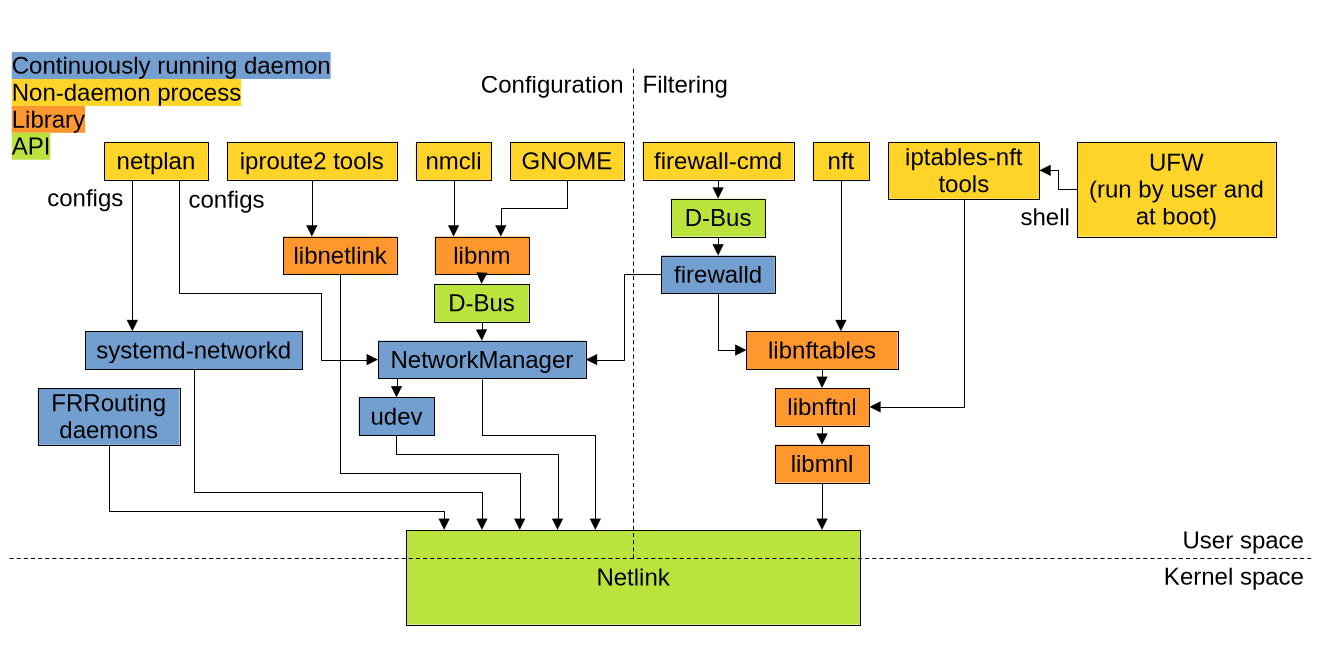
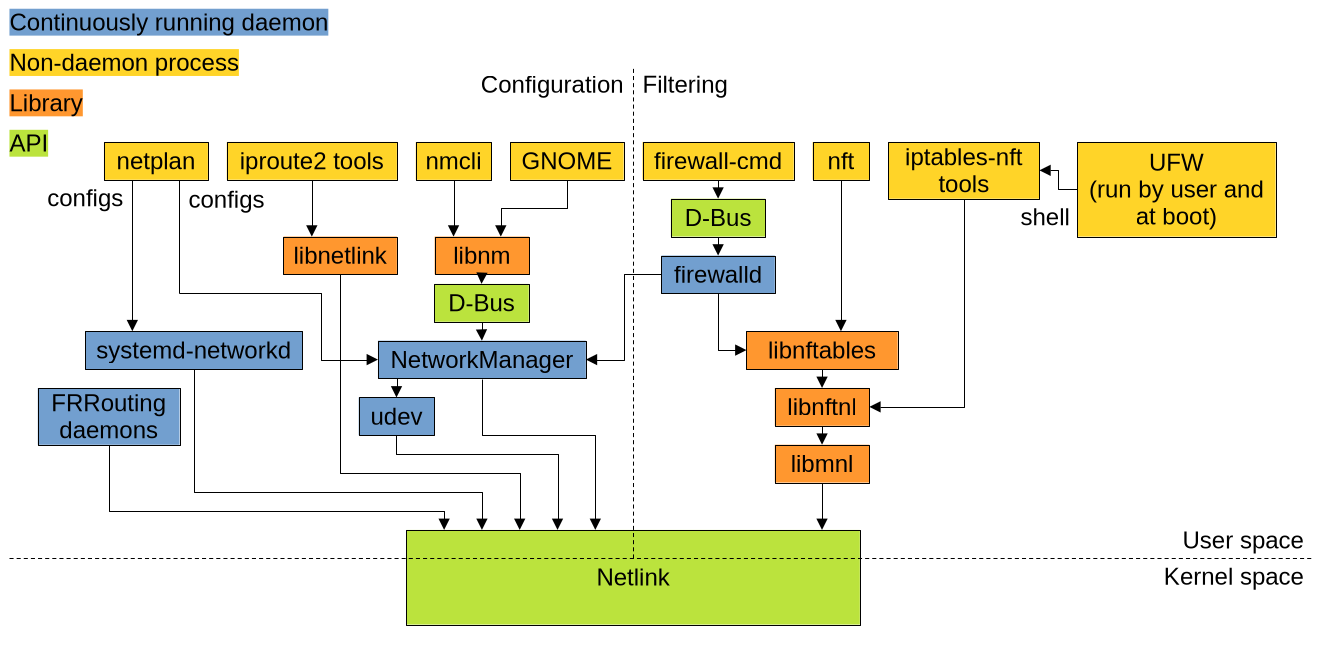
feat: improvments on networking article

Changed region(s): [[0.0, 0.0, 0.2479, 0.2417]]

diff --git a/src/components/references.tsx b/src/components/references.tsx
@@ -69,8 +69,7 @@ export default async function References(props: ReferencesProps): Promise<React.
                             <Link href={bib_entry.URL}>{bib_entry.title}</Link>
                             : bib_entry.title}
                         {". "}
-                        <i>{formattedAuthors}</i>
-                        {". "}
+                        {formattedAuthors == undefined ? "" : formattedAuthors + ". "}
                         {bib_entry.note}
                     </li>;
                 })}

diff --git a/articles/31_linux_networking/linux_networking.md b/articles/31_linux_networking/linux_networking.md
@@ -46,7 +46,7 @@ More precisely: I always wondered
 3. Do the userspace programs only configure the kernel or do they run in the background, actively parsing traffic.
 4. Does the kernel have it's own way of persisting configuration across reboots?
     Alternatively, do userspace programs configure the kernel again every time they start?
-5. May the user combine different tools; i.e., use `ip` tool with a system running NetworkManager.
+5. May the user combine different tools; i.e., use `ip` tool on a system running NetworkManager.
 
 <HalfImage full="true" src="./IMG_0978.jpg" />
 
@@ -71,6 +71,7 @@ Even the kernel itself upcalls into userspace for its own domain resolution need
 
 Below I've prepared a diagram on Linux' userspace networking stack.
 Do notice that I'm not interested in the kernel's internals in this article.
+Don't worry, I'll go over the entire diagram in detail.
 <HalfImage full="true" src="./stack.webp" />
 
 # Configuration Tools
@@ -103,10 +104,10 @@ The solution for such dynamic networking environments are network managers like 
 A network manager runs a userspace daemon in the background dynamically changing the kernel's network configuration to the changing network environment.
 Additionally, network managers provide a higher-level features like network profiles <Cite id="arch_network" />.
 
+<HalfImage src="./gnome.png" />
 While you configure systemd-networkd through configuration files <Cite id="arch_systemd_networkd" />, NetworkManager exposes a D-Bus API, which libnm connects to <Cite id="libnm" />.
 libnm, in turn, is how desktop managers like GNOME show the current network state.
 When you expand the GNOME quick settings <Cite id="gnome_quick_settings" />, for example, you're interacting with libnm <Cite id="gnome_shell" />.
-<HalfImage full="true" src="./gnome.png" />
 
 These desktop managers are very closely intertwined with NetworkManager.
 If you want to use some other network manager, like systemd-networkd, you need to mimic NetworkManager's D-Bus API<Cite id="nmlinkd" />.<br />

diff --git a/talks/11_reliable_spacecraft/reliable_spacecraft.md b/talks/11_reliable_spacecraft/reliable_spacecraft.md
@@ -6,6 +6,6 @@ kicad_firmware_generation, Time Sensitive Networking and Zephyr for Spaceflight
 banner: banner.png
 link: https://present.chris-besch.com/2026_06_19_reliable_spacecraft
 date: "2026-06-19"
-tags: [dlr, kit, software_dev, hardware, kicad, spaceflight, python, c, casio, stm32]
+tags: [dlr, kit, software_dev, hardware, kicad, spaceflight, python, c, casio, stm32, zephyr, linux]
 listed: true
 ---